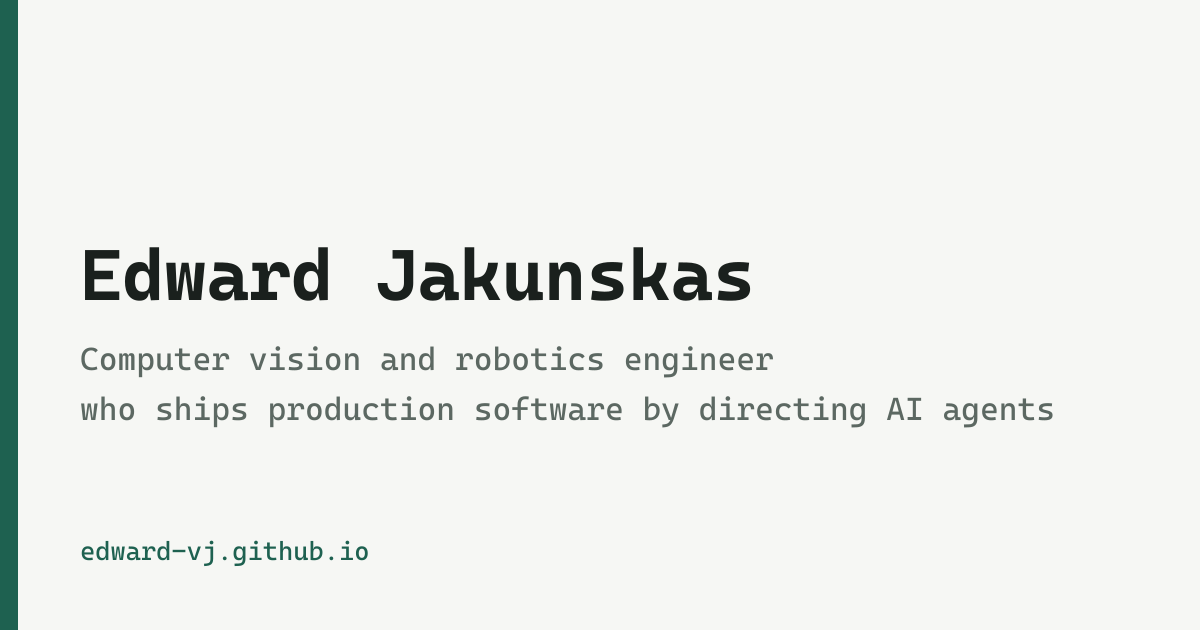
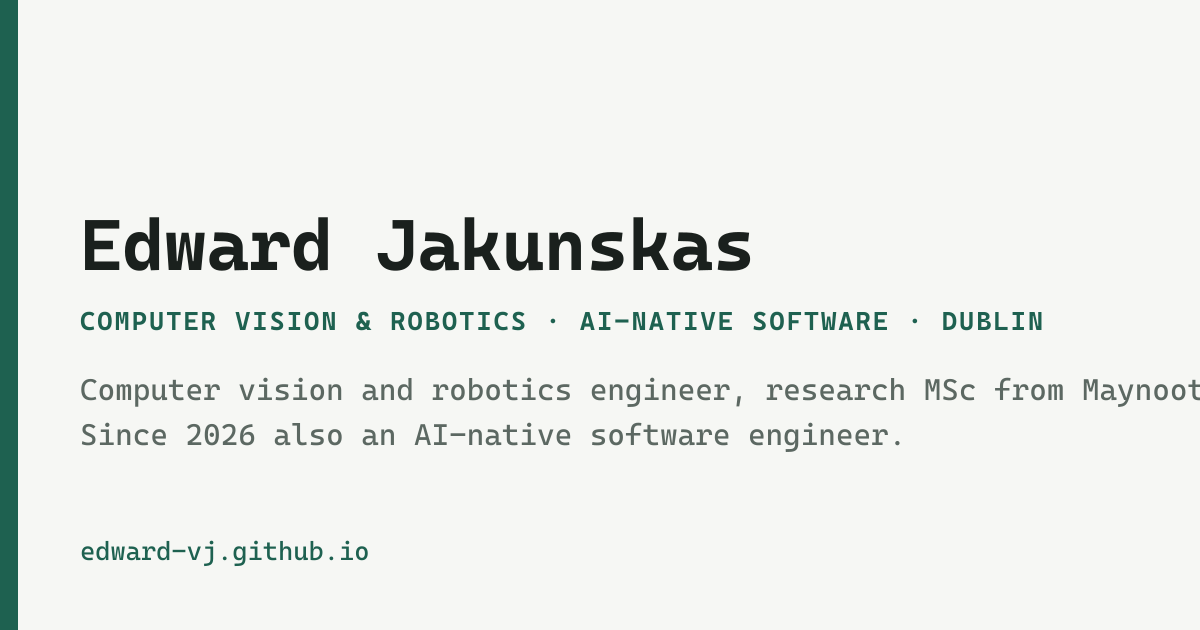
PS-2: H1 wording — two tracks, robotics first
The pitch now names the computer vision and robotics engineer (research MSc)
first and the AI-native software engineer as a track added in 2026, in two
short sentences, with a two-track line under the name. Applied to the landing,
meta description, social image and README. Baselines regenerated.

Plan-Step: PS-2
Sign-off: PS-2.3

Changed region(s): [[0.0617, 0.3317, 1.0, 0.7238], [0.7708, 0.4825, 0.8633, 0.5429], [0.3083, 0.3317, 0.3392, 0.3619]]

diff --git a/docs/plan/steps/PS-2.md b/docs/plan/steps/PS-2.md
@@ -31,6 +31,7 @@ Started 11 September 2026.
   proves the island boot mechanism and produces the first real chunk for the size budgets.
 - Gate refinements found by the tests: the per-route script allowance is a maximum, not an exact count; fonts are counted by unique URL because WebKit reports a preloaded font twice; the `shared` chunk budget moved from size-limit (which cannot express "may match nothing") into `scripts/check-assets.ts`.
 - Local SonarQube (gate G7) first flagged seven new-code style findings (replaceAll, dataset, Number.parseInt, networkidle waits in tests); all fixed, rescanned, gate PASSED.
+- H1 round of changes (Edward, 11 Sep): the one-line pitch merged the two identities too hard. Reworded so robotics stands on its own first and the AI-native work is a recent, separate track: "Computer vision and robotics engineer, with a research MSc from Maynooth. Since 2026 also an AI-native software engineer: production systems delivered by directing coding agents." A two-track line under the name makes the split scannable. Applied to the landing, the meta description, the social image and the README.
 - Theme: one inline script before paint applies the stored choice; a second, tiny inline script
   wires the toggle. Both count against the 1 KB inline budget.
 

diff --git a/docs/decisions.md b/docs/decisions.md
@@ -16,3 +16,4 @@ before they are enabled.
 - **2026-09-11 — Per-plant field values may be shown** in the research explorer, including the measured-versus-interpolated flag (owner's permission).
 - **2026-09-11 — Static analysis runs on a local SonarQube** before each merge rather than in CI; the instance is not reachable from the internet. Result URLs go in the step logs.
 - **2026-09-11 — Fonts: Bricolage Grotesque (headings, interface) and Source Serif 4 (body).** Both SIL Open Font License, Latin subset from Fontsource, four files totalling about 85 KB, self-hosted. The serif continues the CV's typeface; the grotesk gives the headings a voice without reaching for the usual defaults. Data and paths use the system monospace stack. Confirmed at H1 (pending).
+- **2026-09-11 — Positioning wording: two tracks, robotics first.** The pitch names the computer vision and robotics engineer (research MSc) first, then the AI-native software engineer as a track added in 2026, in two short sentences. Not a single merged role: the robotics work stands without AI, and the AI-native work is recent and distinct.

diff --git a/README.md b/README.md
@@ -1,8 +1,8 @@
 # edward-vj.github.io
 
-The personal site of Edward Jakunskas: computer vision and robotics engineer (MSc, Maynooth
-University) who delivers production software by directing AI agents. Live at
-<https://edward-vj.github.io/>.
+The personal site of Edward Jakunskas: computer vision and robotics engineer (MSc by research,
+Maynooth University) and, since 2026, an AI-native software engineer who delivers production
+systems by directing coding agents. Live at <https://edward-vj.github.io/>.
 
 ## What this repository is
 
